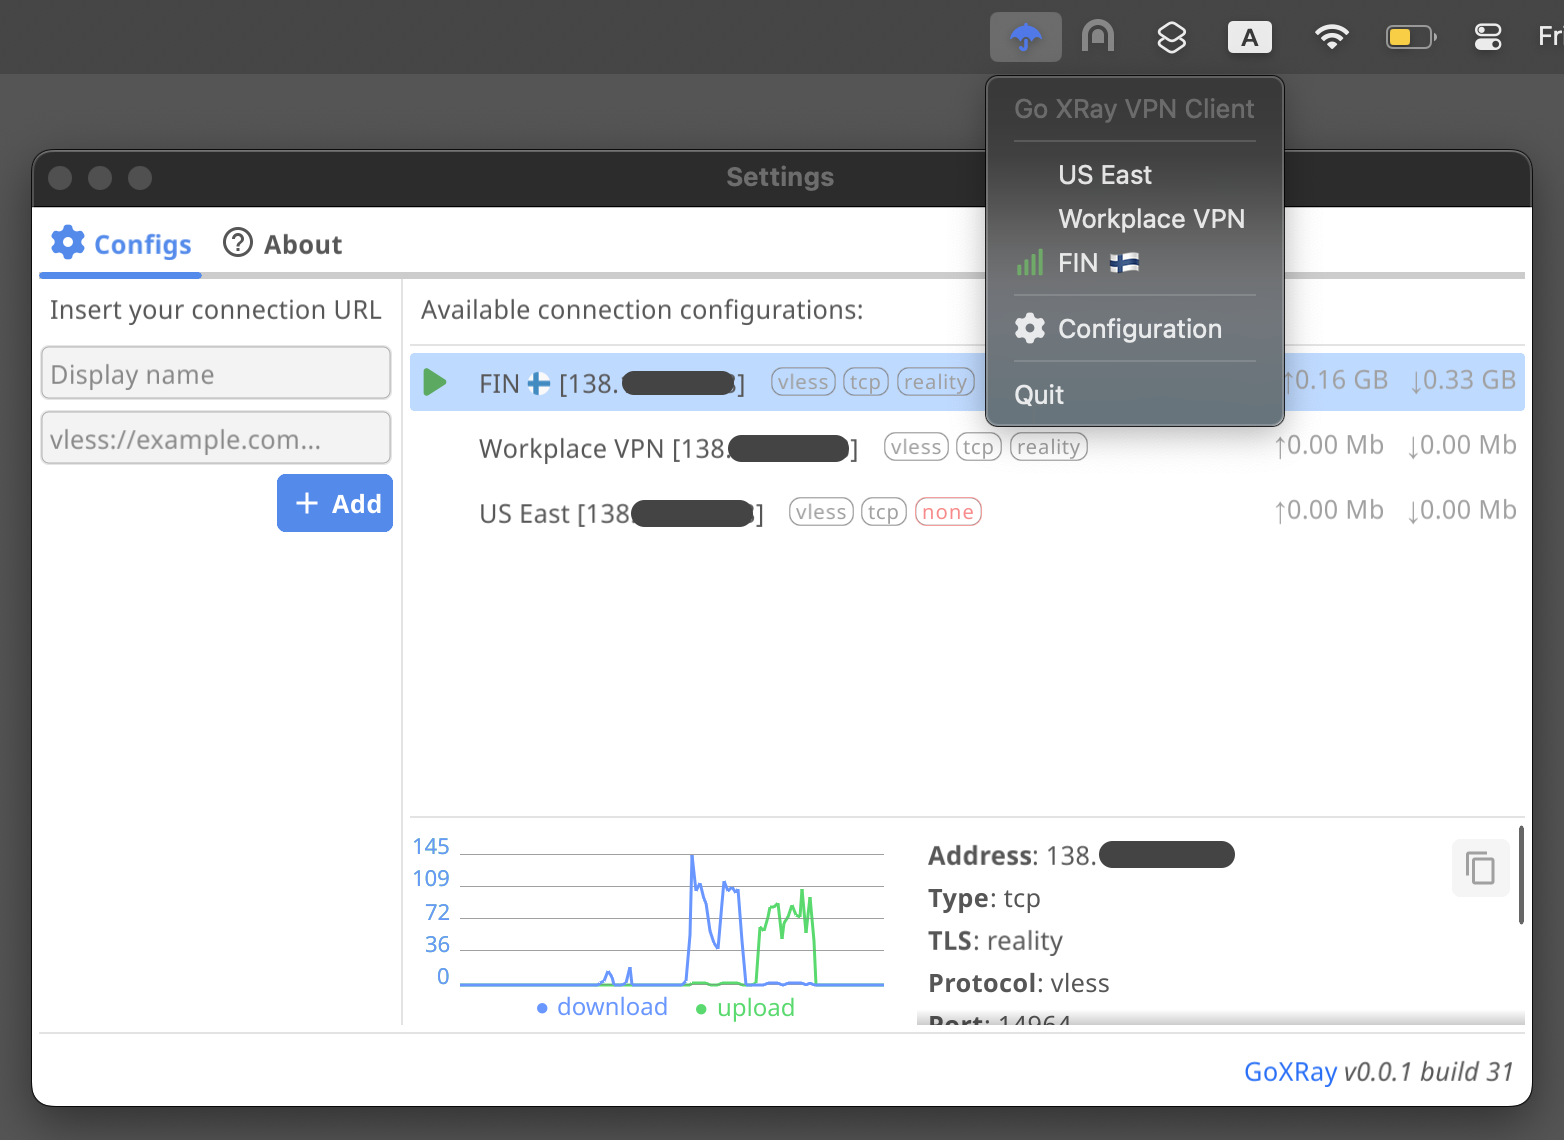
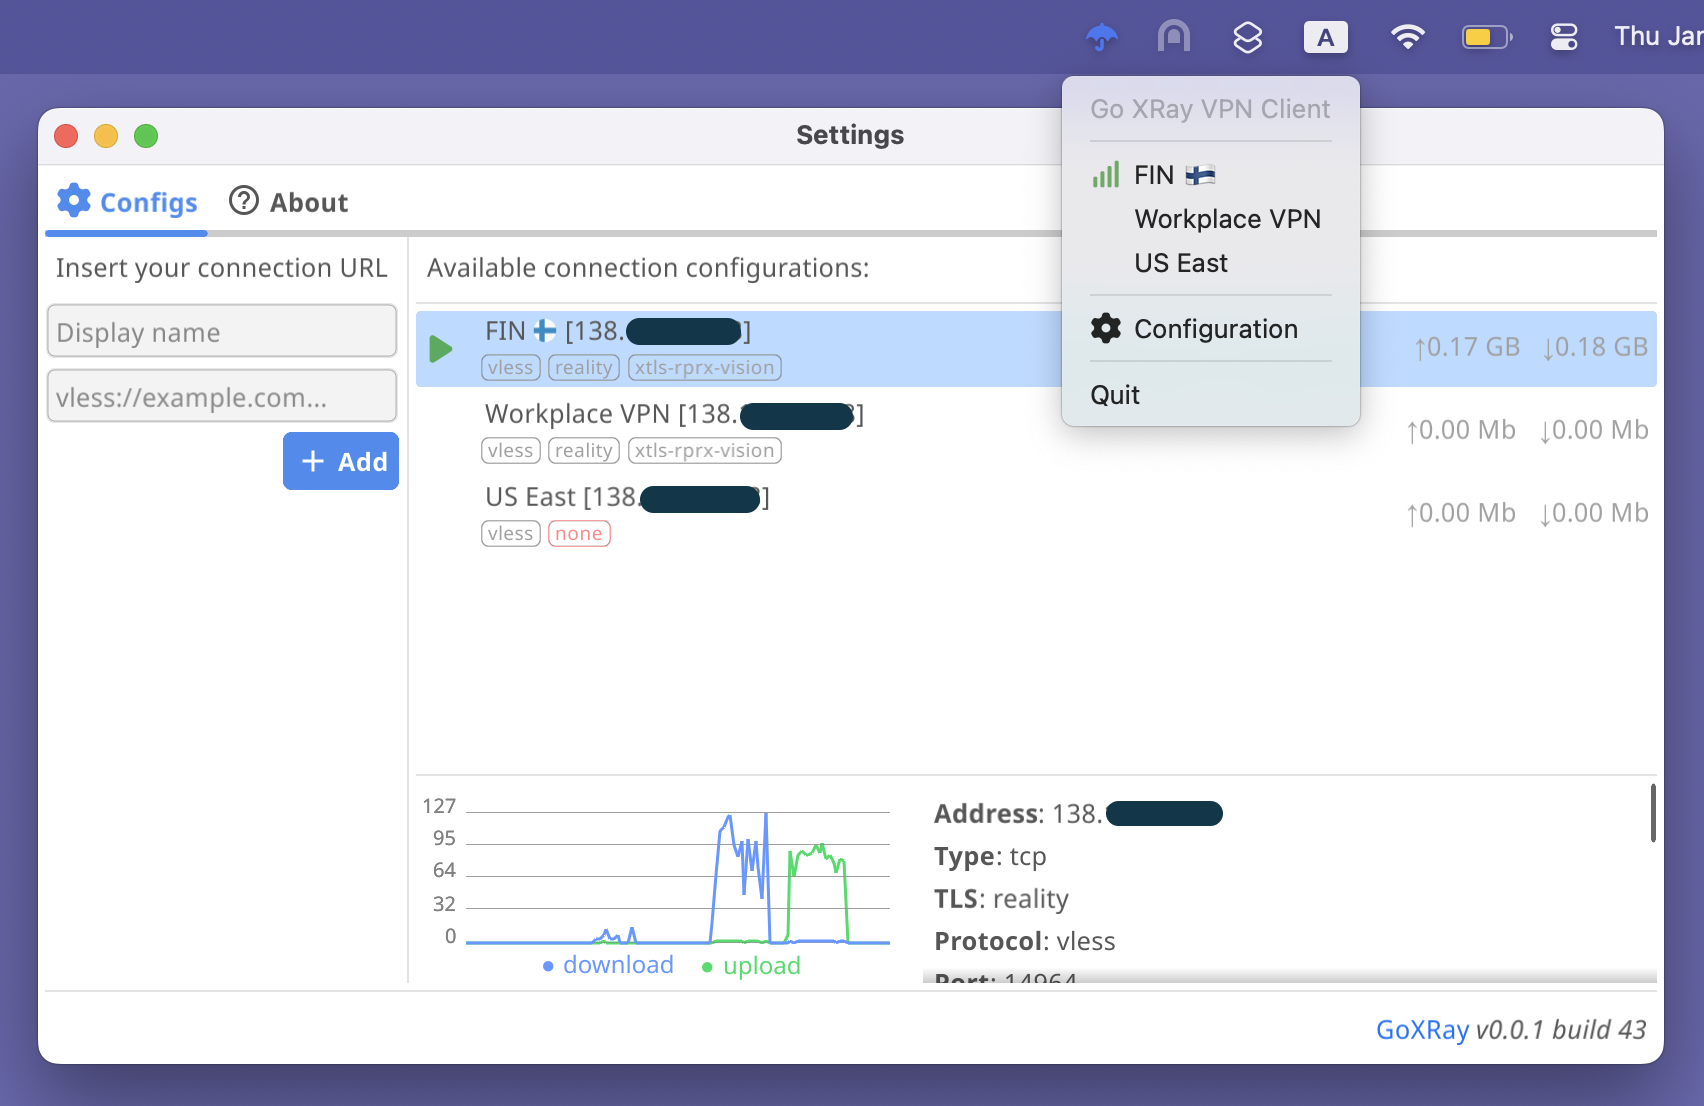
Keep theme variant under sudo, update github image

diff --git a/theme/theme.go b/theme/theme.go
@@ -17,15 +17,19 @@ const (
 )
 
 // AppTheme represents small styling additions to fyne default theme.
-type AppTheme struct{}
+type AppTheme struct {
+	Variant fyne.ThemeVariant
+}
 
-func (m AppTheme) Color(c fyne.ThemeColorName, v fyne.ThemeVariant) color.Color {
+func (m AppTheme) Color(c fyne.ThemeColorName, _ fyne.ThemeVariant) color.Color {
+	v := m.Variant
+
 	if v == theme.VariantDark {
 		switch c {
 		case theme.ColorNameBackground:
-			return color.RGBA{R: 0x29, G: 0x29, B: 0x29, A: 0xff}
+			return color.RGBA{R: 30, G: 31, B: 34, A: 255}
 		case theme.ColorNameSeparator:
-			return color.RGBA{R: 0x19, G: 0x19, B: 0x19, A: 0x55}
+			return color.RGBA{R: 50, G: 51, B: 54, A: 255}
 		case theme.ColorNamePrimary:
 			return color.RGBA{R: 50, G: 107, B: 199, A: 255}
 		case theme.ColorNameSuccess:
@@ -44,9 +48,9 @@ func (m AppTheme) Color(c fyne.ThemeColorName, v fyne.ThemeVariant) color.Color 
 		case theme.ColorNameSuccess:
 			return color.RGBA{R: 49, G: 181, B: 64, A: 255}
 		case theme.ColorNameError:
-			return color.RGBA{237, 72, 66, 255}
+			return color.RGBA{R: 237, G: 72, B: 66, A: 255}
 		case theme.ColorNamePrimary:
-			return color.RGBA{84, 139, 235, 255}
+			return color.RGBA{R: 84, G: 139, B: 235, A: 255}
 		}
 	}
 
@@ -58,7 +62,7 @@ func (m AppTheme) customColor(c fyne.ThemeColorName, v fyne.ThemeVariant) color.
 	case ColorNameTextMuted:
 		switch v {
 		case theme.VariantDark:
-			return color.RGBA{R: 110, G: 110, B: 110, A: 255}
+			return color.RGBA{R: 140, G: 140, B: 140, A: 255}
 		case theme.VariantLight:
 			return color.RGBA{R: 160, G: 160, B: 160, A: 255}
 		}

diff --git a/main.go b/main.go
@@ -3,10 +3,9 @@ package main
 import (
 	"embed"
 	"errors"
+	"flag"
 	"log/slog"
-	_ "net/http/pprof"
 	"runtime/debug"
-	_ "unsafe"
 
 	"fyne.io/fyne/v2"
 	"fyne.io/fyne/v2/app"
@@ -42,7 +41,7 @@ var MenuIcons = &traylist.IconSet{
 //go:embed translation
 var translations embed.FS
 
-func init() {
+func initialize() {
 	debug.SetGCPercent(10)
 	root.PromptRootAccess()
 }
@@ -54,7 +53,8 @@ func onstart() {
 
 func main() {
 	a := app.New()
-	a.Settings().SetTheme(&theme.AppTheme{})
+	initialize()
+	a.Settings().SetTheme(&theme.AppTheme{Variant: getThemeVariant()})
 	a.Lifecycle().SetOnStarted(onstart)
 	if err := lang.AddTranslationsFS(translations, "translation"); err != nil {
 		slog.Warn("failed to init translations", "error", err)
@@ -165,4 +165,16 @@ func toDesktopApp(a fyne.App) desktop.App {
 	}
 
 	return desk
+}
+
+func getThemeVariant() fyne.ThemeVariant {
+	var fThemeVariant = flag.Int("theme_variant", 0, "set app theme variant")
+	flag.Bool("xroot", false, "is root")
+	flag.Parse()
+
+	if fThemeVariant != nil {
+		return fyne.ThemeVariant(*fThemeVariant)
+	}
+
+	return fyne.CurrentApp().Settings().ThemeVariant()
 }

diff --git a/internal/osspecific/root/root_darwin.go b/internal/osspecific/root/root_darwin.go
@@ -5,6 +5,7 @@ import (
 	"os"
 	"path/filepath"
 
+	"fyne.io/fyne/v2"
 	"github.com/getlantern/elevate"
 )
 
@@ -19,12 +20,15 @@ func PromptRootAccess() {
 }
 
 func runItselfAsRoot() {
+	// Keep theme settings of the user.
+	themeFlag := fmt.Sprintf("-theme_variant=%d", fyne.CurrentApp().Settings().ThemeVariant())
+
 	p, err := os.Executable()
 	if err != nil {
 		panic(fmt.Errorf("could not get executable path: %v", err))
 	}
 	cmd := elevate.WithIcon(filepath.Dir(p)+appPackageIcons).WithPrompt("Go XRay Client requires admin privileges").
-		Command(p, append(os.Args[1:], appendFlag)...)
+		Command(p, append(os.Args[1:], appendFlag, themeFlag)...)
 	cmd.Stdin = os.Stdin
 	cmd.Stdout = os.Stdout
 	cmd.Stderr = os.Stderr

diff --git a/internal/osspecific/root/root.go b/internal/osspecific/root/root.go
@@ -5,10 +5,11 @@ package root
 
 import (
 	"os"
+	"slices"
 )
 
-const appendFlag = "-xroot"
+const appendFlag = "-xroot=true"
 
 func hasPermissions() bool {
-	return os.Args[len(os.Args)-1] == appendFlag
+	return slices.Contains(os.Args[1:], appendFlag)
 }
